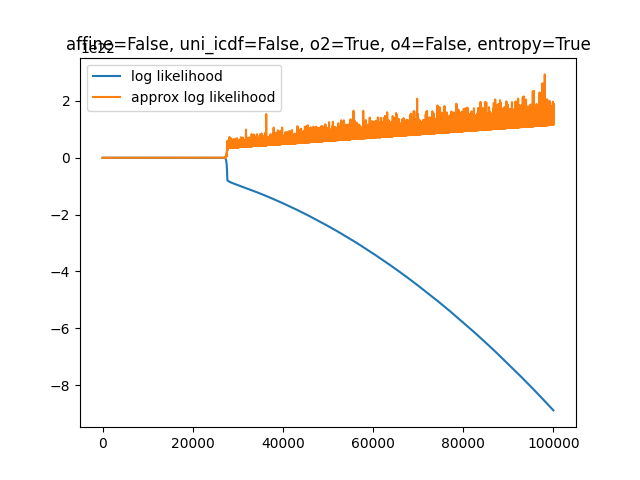
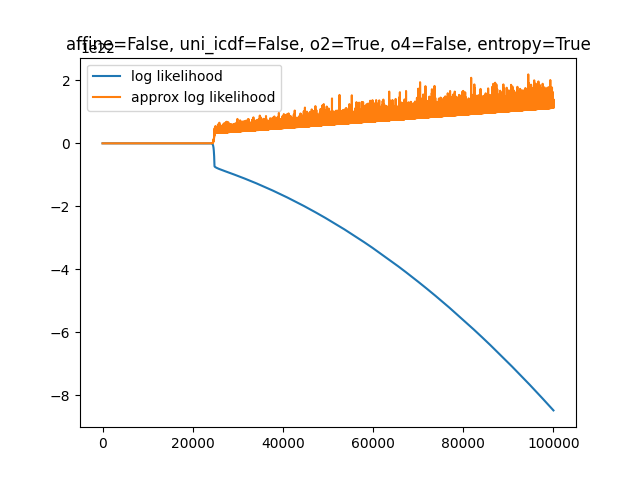
minor changes

diff --git a/train.py b/train.py
@@ -79,8 +79,11 @@ def train(epochs, learning_rate, entropy=False, affine=False, uni_icdf=False, tw
 
         if o2 == True:
             Dx = discriminator.o2_polynomial(x)  # discriminator over real data
-            # discriminator over fake data
-            Df = discriminator.o2_polynomial(generated_data)
+            Df = discriminator.o2_polynomial(generated_data)             # discriminator over fake data
+
+        elif o4 == True:
+            Dx = discriminator.o4_polynomial(x)
+            Df  = discriminator.o4_polynomial(generated_data)
 
         # discriminator's training
         optimizer_D.zero_grad()
@@ -114,12 +117,20 @@ def train(epochs, learning_rate, entropy=False, affine=False, uni_icdf=False, tw
         elif gmm_logprob == True:
             generated_data2 = generator.gmm_logprob(eps)
 
+        if o2 == True:
+            Dx2 = discriminator.o2_polynomial(x)  # discriminator over real data
+            Df2 = discriminator.o2_polynomial(generated_data2)             # discriminator over fake data
+
+        elif o4 == True:
+            Dx2 = discriminator.o4_polynomial(x)
+            Df2  = discriminator.o4_polynomial(generated_data2)
+
         if entropy == True:
-            loss_G = - torch.mean(discriminator.o2_polynomial(generated_data2)
+            loss_G = - torch.mean(Df2
                                   ) + torch.mean(q.log_prob(generated_data2))
 
         elif entropy == False:
-            loss_G = - torch.mean(Df)
+            loss_G = - torch.mean(Df2) # Df or Df2 ????
 
         loss_G.backward()
         optimizer_G.step()

diff --git a/utils.py b/utils.py
@@ -22,7 +22,7 @@ class Generator(nn.Module):
         return q.icdf(epsU)
 
     def two_modes_icdf(self, epsU):
-        weights = np.exp(self.softmax_weights.detach().numpy())
+        weights = np.exp(self.softmax_weights.detach().numpy()) #self.softmax_weights.detach().numpy() 
         mu_q = self.mu_q.detach().numpy()
         log_sigma_q = self.log_sigma_q.detach().numpy()
         if epsU < weights[0]:
@@ -34,7 +34,7 @@ class Generator(nn.Module):
         return Variable(torch.Tensor(sample))
 
     def gmm_logprob(self, epsN):
-        mix = torch.distributions.Categorical(torch.exp(self.softmax_weights))
+        mix = torch.distributions.Categorical(torch.exp(self.softmax_weights)) #torch.distributions.Categorical(self.softmax_weights) 
         comp = torch.distributions.Normal(
             self.mu_q, torch.exp(self.log_sigma_q))
         gmm = torch.distributions.MixtureSameFamily(mix, comp)

diff --git a/params5.py b/params5.py
@@ -1,0 +1,10 @@
+
+epochs = 300000
+learning_rate = 1e-3
+affine = False
+uni_icdf = True
+two_modes_icdf = False
+gmm_logprob = False 
+o2 = False
+entropy = True
+o4 =True 
